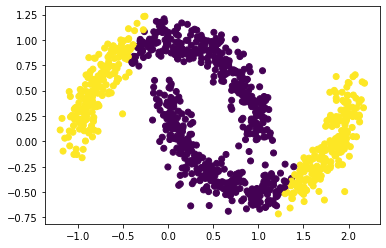
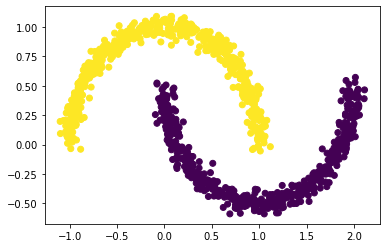
4

diff --git a/_posts/2022-02-11-blog-4.md b/_posts/2022-02-11-blog-4.md
@@ -320,7 +320,9 @@ The first 5 entries of our `z` vector look promising. Let's move on.
 
 
 ```python
-D = np.ndarray(shape=(n,n))
+# create a zero matrix
+D = 0*np.ndarray(shape=(n,n))
+# then fill the diagonal appropriately
 np.fill_diagonal(a=D, val=sum(A))
 D
 ```
@@ -434,7 +436,7 @@ Continuing with using linear algebra, we define $$L$$, the Laplacian matrix of $
 
 ```python
 L = np.linalg.inv(D)@(D-A)
-eig_values = np.linalg.eig(L)[0]
+eig_values, eig_vectors = np.linalg.eig(L)
 ordered_ev = np.sort(eig_values)
 index, = np.where(eig_values==ordered_ev[1])
 index[0]
@@ -447,7 +449,7 @@ index[0]
 
 
 ```python
-z_eig = np.linalg.eig(L)[1][:,index[0]]
+z_eig = eig_vectors[:,index[0]]
 plt.scatter(X[z_eig<0][:,0], X[z_eig<0][:,1], c = 'red')
 plt.scatter(X[z_eig>=0][:,0], X[z_eig>=0][:,1], c = 'blue')
 ```
@@ -459,6 +461,21 @@ plt.scatter(X[z_eig>=0][:,0], X[z_eig>=0][:,1], c = 'blue')
 
 This looks proportional to the previous graph. Awesome!
 
+We can also use an array of 0 and 1 entries to define the color by cluster.
+
+
+```python
+z = [1 if z_eig[i]<0 else 0 for i in range(z_eig.size)]
+plt.scatter(X[:,0], X[:,1], c = z)
+```
+
+    
+![output_56_1.png](/images/output_56_1.png)
+    
+
+
+This will help us in the next part...
+
 ## Part G
 
 Finally, let's write a `spectral_clustering` function that takes in the input data `X` and an `epsilon` distance parameter and returns an array of 0 and 1 to distinguish between the two clusters. It uses each of the steps that we have computed above to come to forming our array of "predictions".
@@ -467,16 +484,27 @@ Finally, let's write a `spectral_clustering` function that takes in the input da
 ```python
 def spectral_clustering(X, epsilon): 
     A = metrics.pairwise_distances(X=X)
-    A = (A <= epsilon)*1.0
+    A = 1.0*(A <= epsilon)
     np.fill_diagonal(a=A, val=0)
-    D = np.ndarray(shape=(n,n))
+    D = np.ndarray(shape=A.shape)*0
     np.fill_diagonal(a=D, val=sum(A))
     L = np.linalg.inv(D)@(D-A)
-    eig_values = np.linalg.eig(L)[0]
+    eig_values, eig_vectors = np.linalg.eig(L)
     index, = np.where(eig_values==np.sort(eig_values)[1])
-    z_eig = np.linalg.eig(L)[1][:,index[0]]
-    return np.array([1 if z_eig[i]<0 else 0 for i in range(z_eig.size)])
+    z_eig = eig_vectors[:,index[0]]
+    return [1 if z_eig[i]<0 else 0 for i in range(z_eig.size)]
 ```
+
+
+```python
+z = spectral_clustering(X, 0.4)
+plt.scatter(X[:,0], X[:,1], c = z)
+```
+
+    
+![output_60_1.png](/images/output_60_1.png)
+    
+
 
 ## Part H
 
@@ -484,14 +512,14 @@ Let's test out our `spectral_clustering` function on a larger data set.
 
 
 ```python
-np.random.seed(1234)
+np.random.seed(3334)
 n = 1000
 X, y = datasets.make_moons(n_samples=n, shuffle=True, noise=0.05, random_state=None)
 plt.scatter(X[:,0], X[:,1])
 ```
 
     
-![png](output_59_1.png)
+![output_62_1.png](/images/output_62_1.png)
     
 
 
@@ -502,22 +530,21 @@ plt.scatter(X[:,0], X[:,1], c = z)
 ```
 
     
-![png](output_60_1.png)
+![output_63_1.png](/images/output_63_1.png)
     
 
 
-Using our vector `z` to determine the colors, we see that our function is not completely accurate. We can increase the noise and see how we do.
+Using our vector `z` to determine the colors, we see that our function accurately separates the clusters into their respective colors.
 
 
 ```python
-np.random.seed(1234)
 n = 1000
 X, y = datasets.make_moons(n_samples=n, shuffle=True, noise=0.10, random_state=None)
 plt.scatter(X[:,0], X[:,1])
 ```
 
     
-![png](output_62_1.png)
+![output_65_1.png](/images/output_65_1.png)
     
 
 
@@ -528,22 +555,21 @@ plt.scatter(X[:,0], X[:,1], c = z)
 ```
 
     
-![png](output_63_1.png)
+![output_66_1.png](/images/output_66_1.png)
     
 
 
-Not sure if this is better, but we can try again.
+We increased the noise from `0.05` to `0.10` and we can see two yellow points where they should be purple. Let's increase the noise once more and observe.
 
 
 ```python
-np.random.seed(1234)
 n = 1000
 X, y = datasets.make_moons(n_samples=n, shuffle=True, noise=0.15, random_state=None)
 plt.scatter(X[:,0], X[:,1])
 ```
 
     
-![png](output_65_1.png)
+![output_68_1.png](/images/output_68_1.png)
     
 
 
@@ -554,9 +580,11 @@ plt.scatter(X[:,0], X[:,1], c = z)
 ```
 
     
-![png](output_66_1.png)
+![output_69_1.png](/images/output_69_1.png)
     
 
+
+Just as we suspected...as the noise grows, the function loses accuracy.
 
 ## Part I
 
@@ -570,7 +598,7 @@ plt.scatter(X[:,0], X[:,1])
 ```
 
     
-![png](output_68_1.png)
+![output_72_1.png](/images/output_72_1.png)
     
 
 
@@ -584,7 +612,7 @@ plt.scatter(X[:,0], X[:,1], c = km.predict(X))
 ```
 
     
-![png](output_70_1.png)
+![output_74_1.png](/images/output_74_1.png)
     
 
 
@@ -597,31 +625,36 @@ plt.scatter(X[:,0], X[:,1], c = z)
 ```
 
     
-![png](output_72_1.png)
+![output_76_1.png](/images/output_76_1.png)
     
 
 
-Yup, not sure what I was expecting, but let's experiment with different `epsilon` values.
+Wow! Our function also works for this shape, and we will experiment with different `epsilon` values this time.
 
 
 ```python
-z = spectral_clustering(X, 0.1)
+z = spectral_clustering(X, 0.2)
 plt.scatter(X[:,0], X[:,1], c = z)
 ```
 
     
-![png](output_74_1.png)
+![output_78_1.png](/images/output_78_1.png)
     
 
 
+This seems to have reversed the colors, but has not affected the accuracy. What if we increase `epsilon`?
+
 
 ```python
-z = spectral_clustering(X, 1.0)
+z = spectral_clustering(X, 0.8)
 plt.scatter(X[:,0], X[:,1], c = z)
 ```
 
     
-![png](output_75_1.png)
+![output_80_1.png](/images/output_80_1.png)
     
 
 
+Nope, this doesn't look right. Intuitively, this is the result we want. Since `epsilon` helps us measure closeness, when we increase this variable, our measurements are not as precise.
+
+We can conclude that increasing noise and epsilon do not increase the accuracy of our `spectral_clustering` function.
